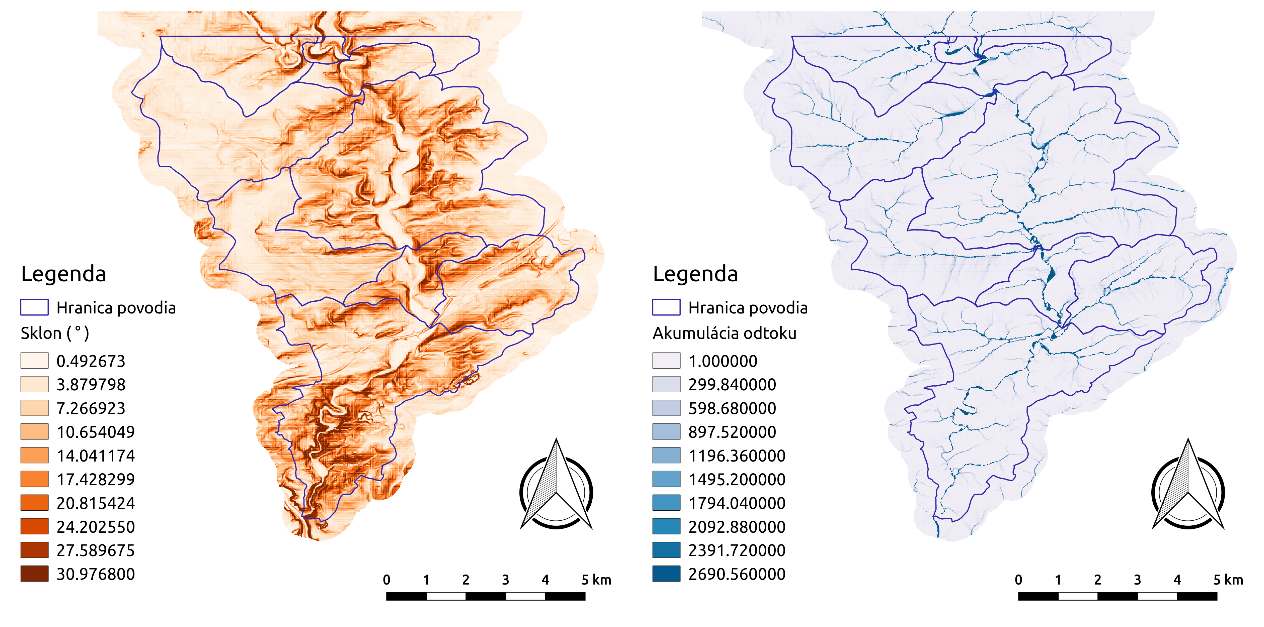
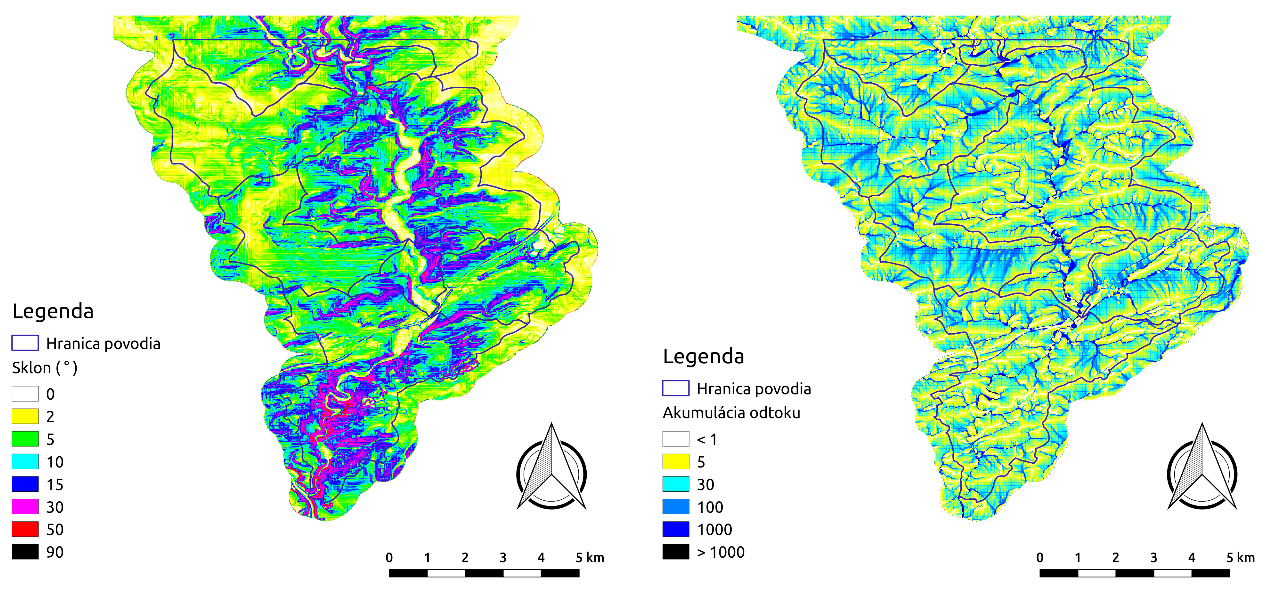
wáááááá

diff --git a/hydrologie/usle.rst b/hydrologie/usle.rst
@@ -14,7 +14,8 @@
    :width: 1.5em
 .. |r.slope| image:: ../images/gplugin/r.slope.1.png
    :width: 1.5em
-
+.. |grass_shell| image:: ../images/gplugin/shell.1.png
+   :width: 1.5em
 
 2. Priemerná dlhodobá strata pôdy
 =================================
@@ -240,12 +241,12 @@ Následne spustíme modul |r.slope| :sup:`r.slope` a vypočítame sklon v rieše
    Výpočet sklonových pomerov v záujmovom území. 
 
 
-Ďalej otvoríme príkazový riadok |shell| :sup:`shell`, spustíme modul 
+Ďalej otvoríme príkazový riadok |grass_shell| :sup:`shell`, spustíme modul 
 :grasscmd:`r.terraflow` a z :map:`dmt` vytvoríme vyhladený DMT 
 (:map:`dmt_fill`), rastrovú mapu smeru
 odtoku do susednej bunky s najväčším sklonom (:map:`direction`), mapu mikropovodí
 (:map:`swatershed`), rastrovú mapu znázorňujúcu akumuláciu toku v každej bunke
-(:option:`accumulation`) a mapu konvergenčného topografického indexu (:map:`tci`).
+(:map:`accumulation`) a mapu konvergenčného topografického indexu (:map:`tci`).
 Dialógové okno modulu je na :num:`#terraflow`, smer v stupňoch a akumulácia 
 odtoku v :math:`m^2` sú na :num:`#slope-accumulation`.
 
@@ -263,15 +264,18 @@ odtoku v :math:`m^2` sú na :num:`#slope-accumulation`.
 
    Sklonové pomery v stupňoch a akumulácia odtoku v :math:`m^2`. 
 
-
-
-
-
 .. _krok7:
 
 Krok 7
 ^^^^^^
-7. výpočet parametra `LS`
+Topografický faktor LS vypočítame ako
+
+.. math::
+   
+   LS = (accu \times \frac{10.0}{22.13})^{0.6} \times (\frac{sin(slope \times \frac{pi}{180})}{0.09})^{1.3}
+   
+Použijeme grafický kalkulátor rastrových máp |r.mapcalc| :sup:`r.mapcalc` 
+(:menuselection:`Rastr --> Prostorová analýza --> Mapová algebra`). 
 
 .. _krok8:
 

diff --git a/hydrologie/scs-cn.rst b/hydrologie/scs-cn.rst
@@ -12,7 +12,6 @@
    :width: 1.5em
 .. |grass_shell| image:: ../images/gplugin/shell.1.png
    :width: 1.5em
-
 .. |v.db.select| image:: ../images/gplugin/v.db.select.1.png
    :width: 1.5em
 .. |v.db.update| image:: ../images/gplugin/v.db.update_op.2.png
@@ -29,8 +28,6 @@
    :width: 2em
 .. |v.to.db| image:: ../images/gplugin/v.to.db.2.png
    :width: 3.5em
-.. |r.out.gdal.gtiff| image:: ../images/gplugin/r.out.gdal.gtiff.2.png
-   :width: 1.5em
 .. |v.rast.stats| image:: ../images/gplugin/v.rast.stats.3.png
    :width: 4.5em
 
@@ -629,10 +626,8 @@ Záporným hodnotám :dbcolumn:`HOklad` priradíme konštantu `0` modulom
 Krok 8
 ^^^^^^
 Modulom |v.to.rast.attr| :sup:`v.to.rast.attr` vytvoríme z vektorovej vrstvy 
-:map:`hpj_kpp_lu_pov` rastre :map:`ho` a :map:`op`. Následne ich exportujeme
-modulom |r.out.gdal.gtiff| :sup:`r.out.gdal.gtiff`, kde ako vhodný formát 
-nastavíme `Float64`.
-Zobrazenie v prostredí QGIS je na :num:`ho-op`.
+:map:`hpj_kpp_lu_pov` rastre :map:`ho` a :map:`op`. Zobrazenie v prostredí QGIS 
+je na :num:`ho-op`.
 
 .. _ho-op:
 
